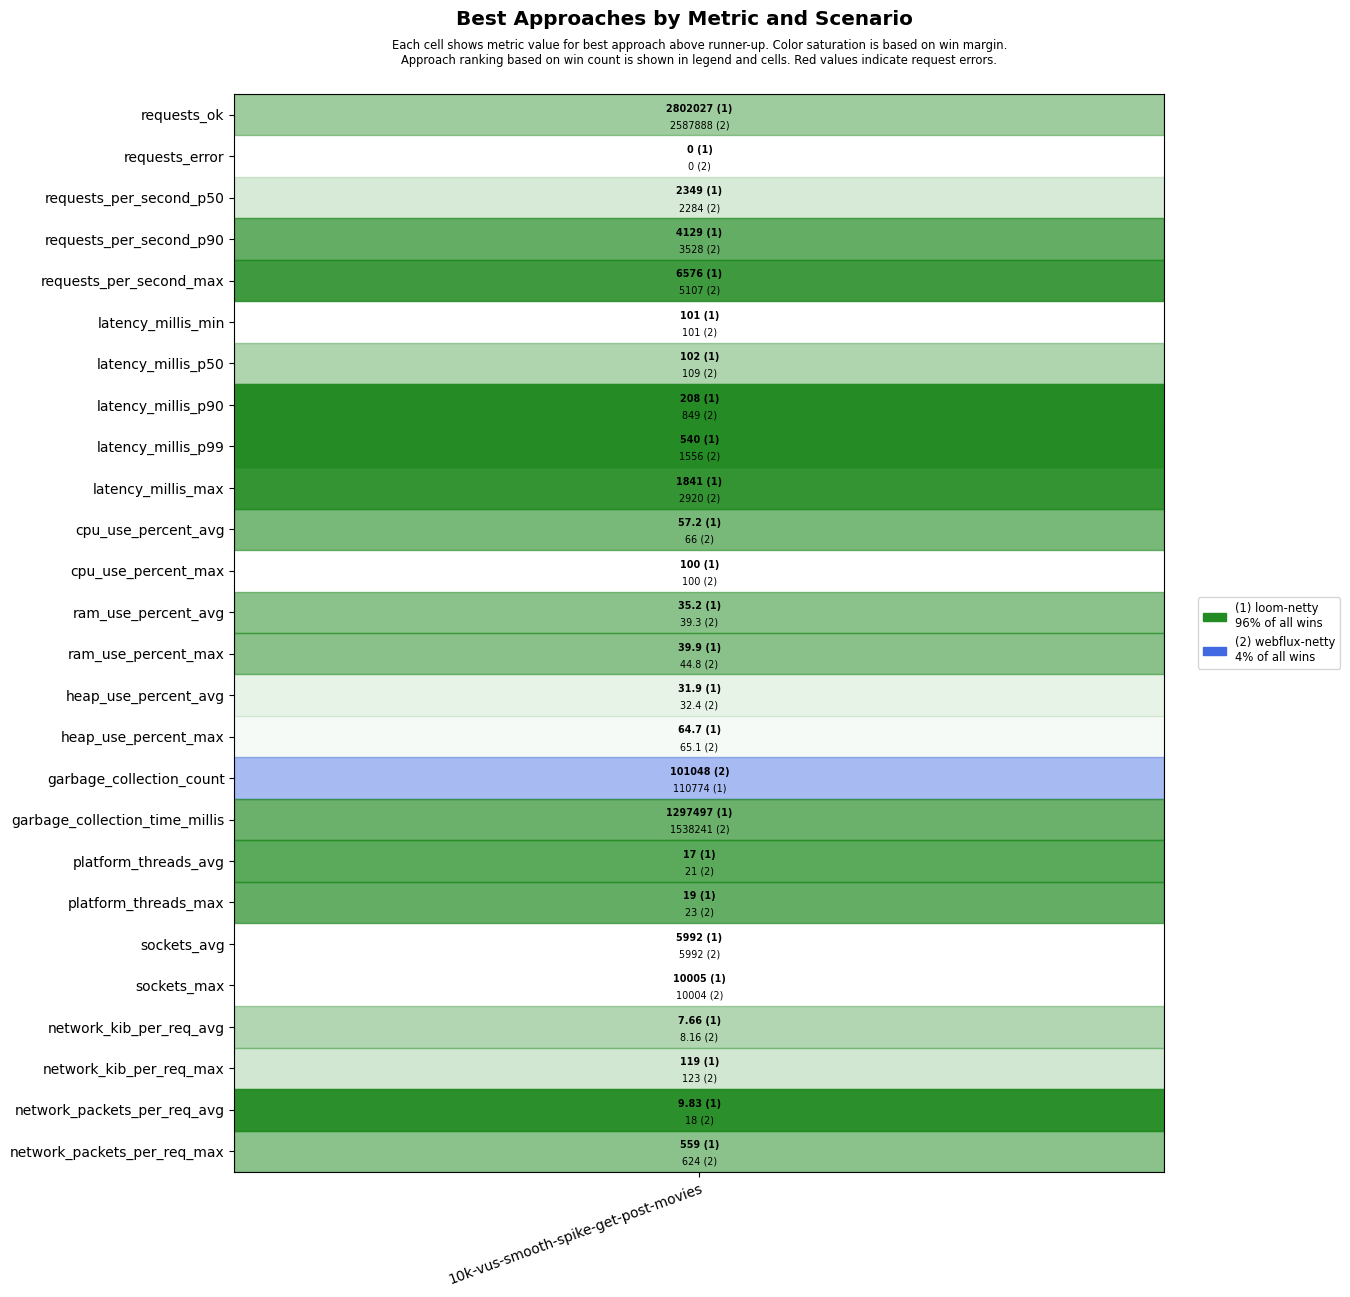
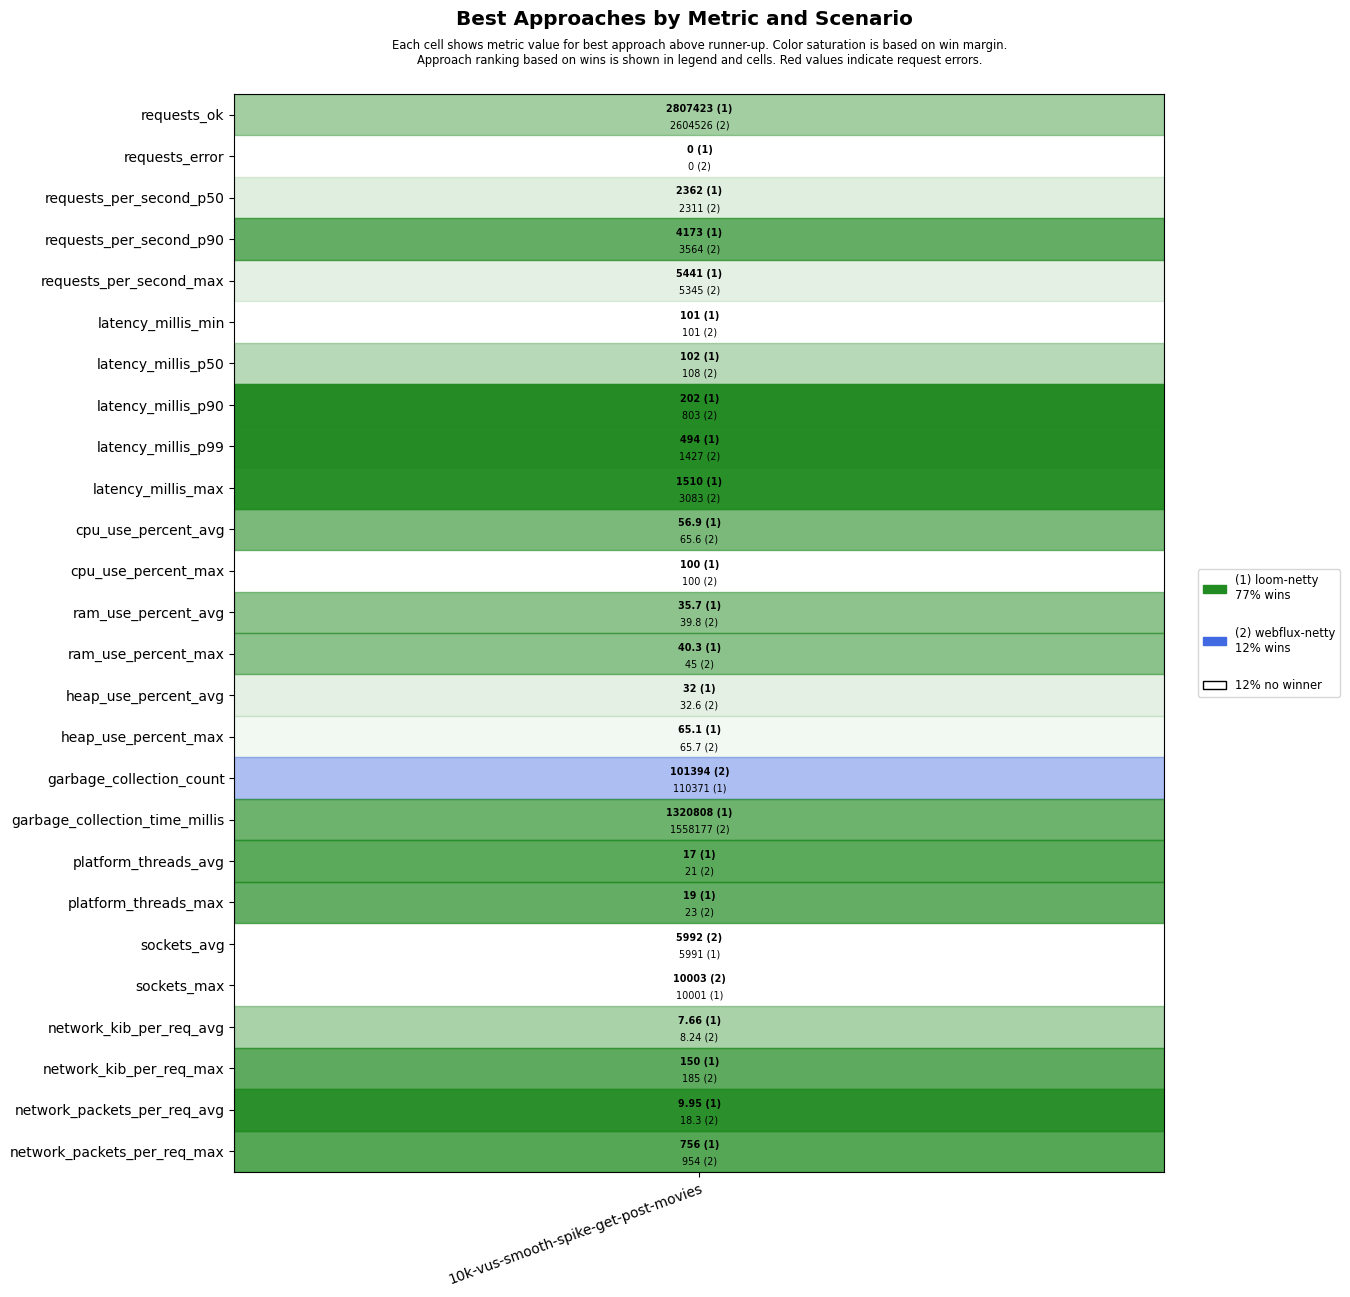
Apply automatic changes

diff --git a/results/ci/scenarios-soaktest/ubuntu-24.04/java-22/results.md b/results/ci/scenarios-soaktest/ubuntu-24.04/java-22/results.md
@@ -1,0 +1,54 @@
+# scenarios-soaktest
+
+## Test Time
+
+| **Name**                | **Value** |
+|-------------------------|-----------|
+| **Start (UTC)** | 2024-08-02 05:21:40 |
+| **End (UTC)** | 2024-08-02 06:03:25 |
+| **Duration (hh:mm:ss)** | 00:41:45 |
+
+## System Specs
+
+| **Name**                | **Value** |
+|-------------------------|-----------|
+| **Java** | OpenJDK 64-Bit Server VM Corretto-22.0.2.9.1 (build 22.0.2+9-FR, mixed mode, sharing) |
+| **Python** | 3.12.3 |
+| **OS** | Ubuntu 24.04 LTS |
+| **Kernel** | 6.8.0-1010-azure |
+| **CPU** | AMD EPYC 7763 64-Core Processor |
+| **CPU Cores** | 4 |
+| **RAM** | 15Gi total, 12Gi available |
+| **Disk** | 159G total, 105G available |
+
+## Scenarios
+
+**Scenario file:** src/main/resources/scenarios/scenarios-soaktest.csv
+
+| Scenario | k6 Config | Server Profiles | Delay Call Depth | Delay (ms) | Connections | Requests per Second | Warmup Duration (s) | Test Duration (s) |
+|----------|-----------|-----------------|------------------|------------|-------------|---------------------|---------------------|------------------|
+| [10k-vus-smooth-spike-get-post-movies](#10k-vus-smooth-spike-get-post-movies) | get-post-movies-smooth-vus-spike.js |  | 0 | 100 | 10000 |  | 0 | 1200 |
+
+## Result Overview
+
+### Overall
+
+![Overall Results](./results.png)
+### Netty-based
+
+![Netty Results](./results-netty.png)
+
+## Result Details
+
+
+### 10k-vus-smooth-spike-get-post-movies
+
+#### loom-netty
+
+![loom-netty](./10k-vus-smooth-spike-get-post-movies/loom-netty.png)
+
+#### webflux-netty
+
+![webflux-netty](./10k-vus-smooth-spike-get-post-movies/webflux-netty.png)
+
+
